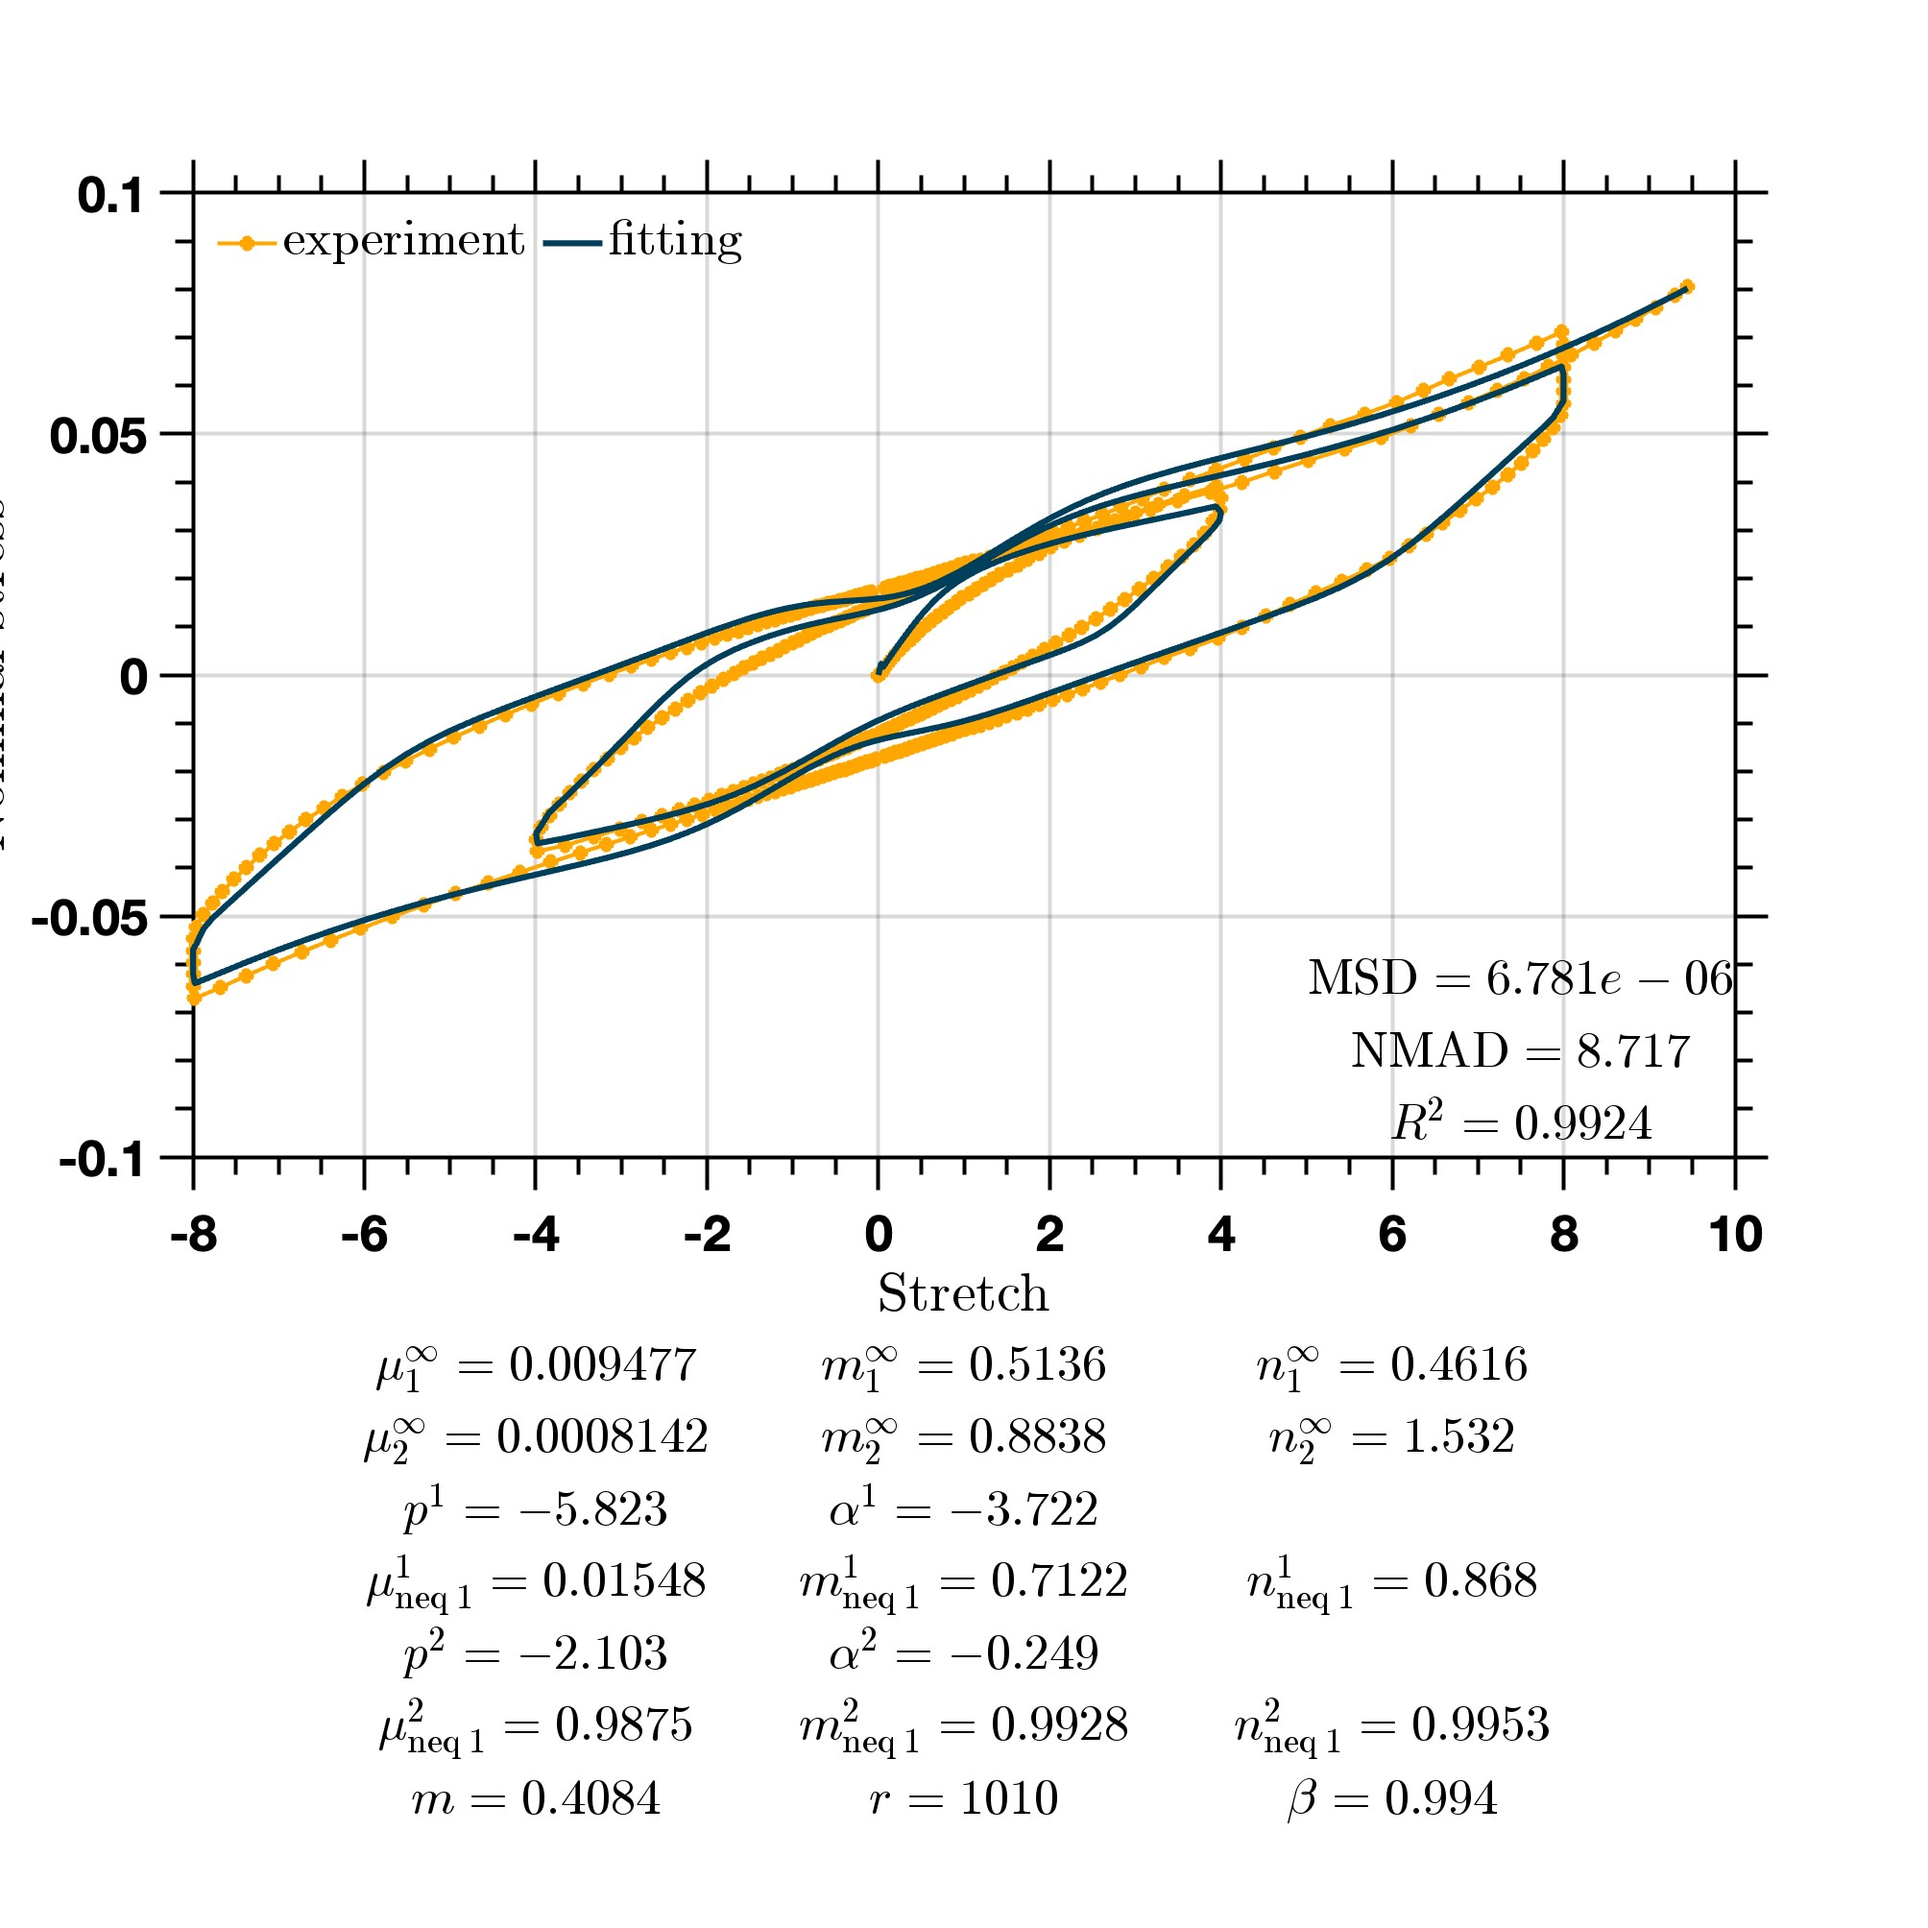
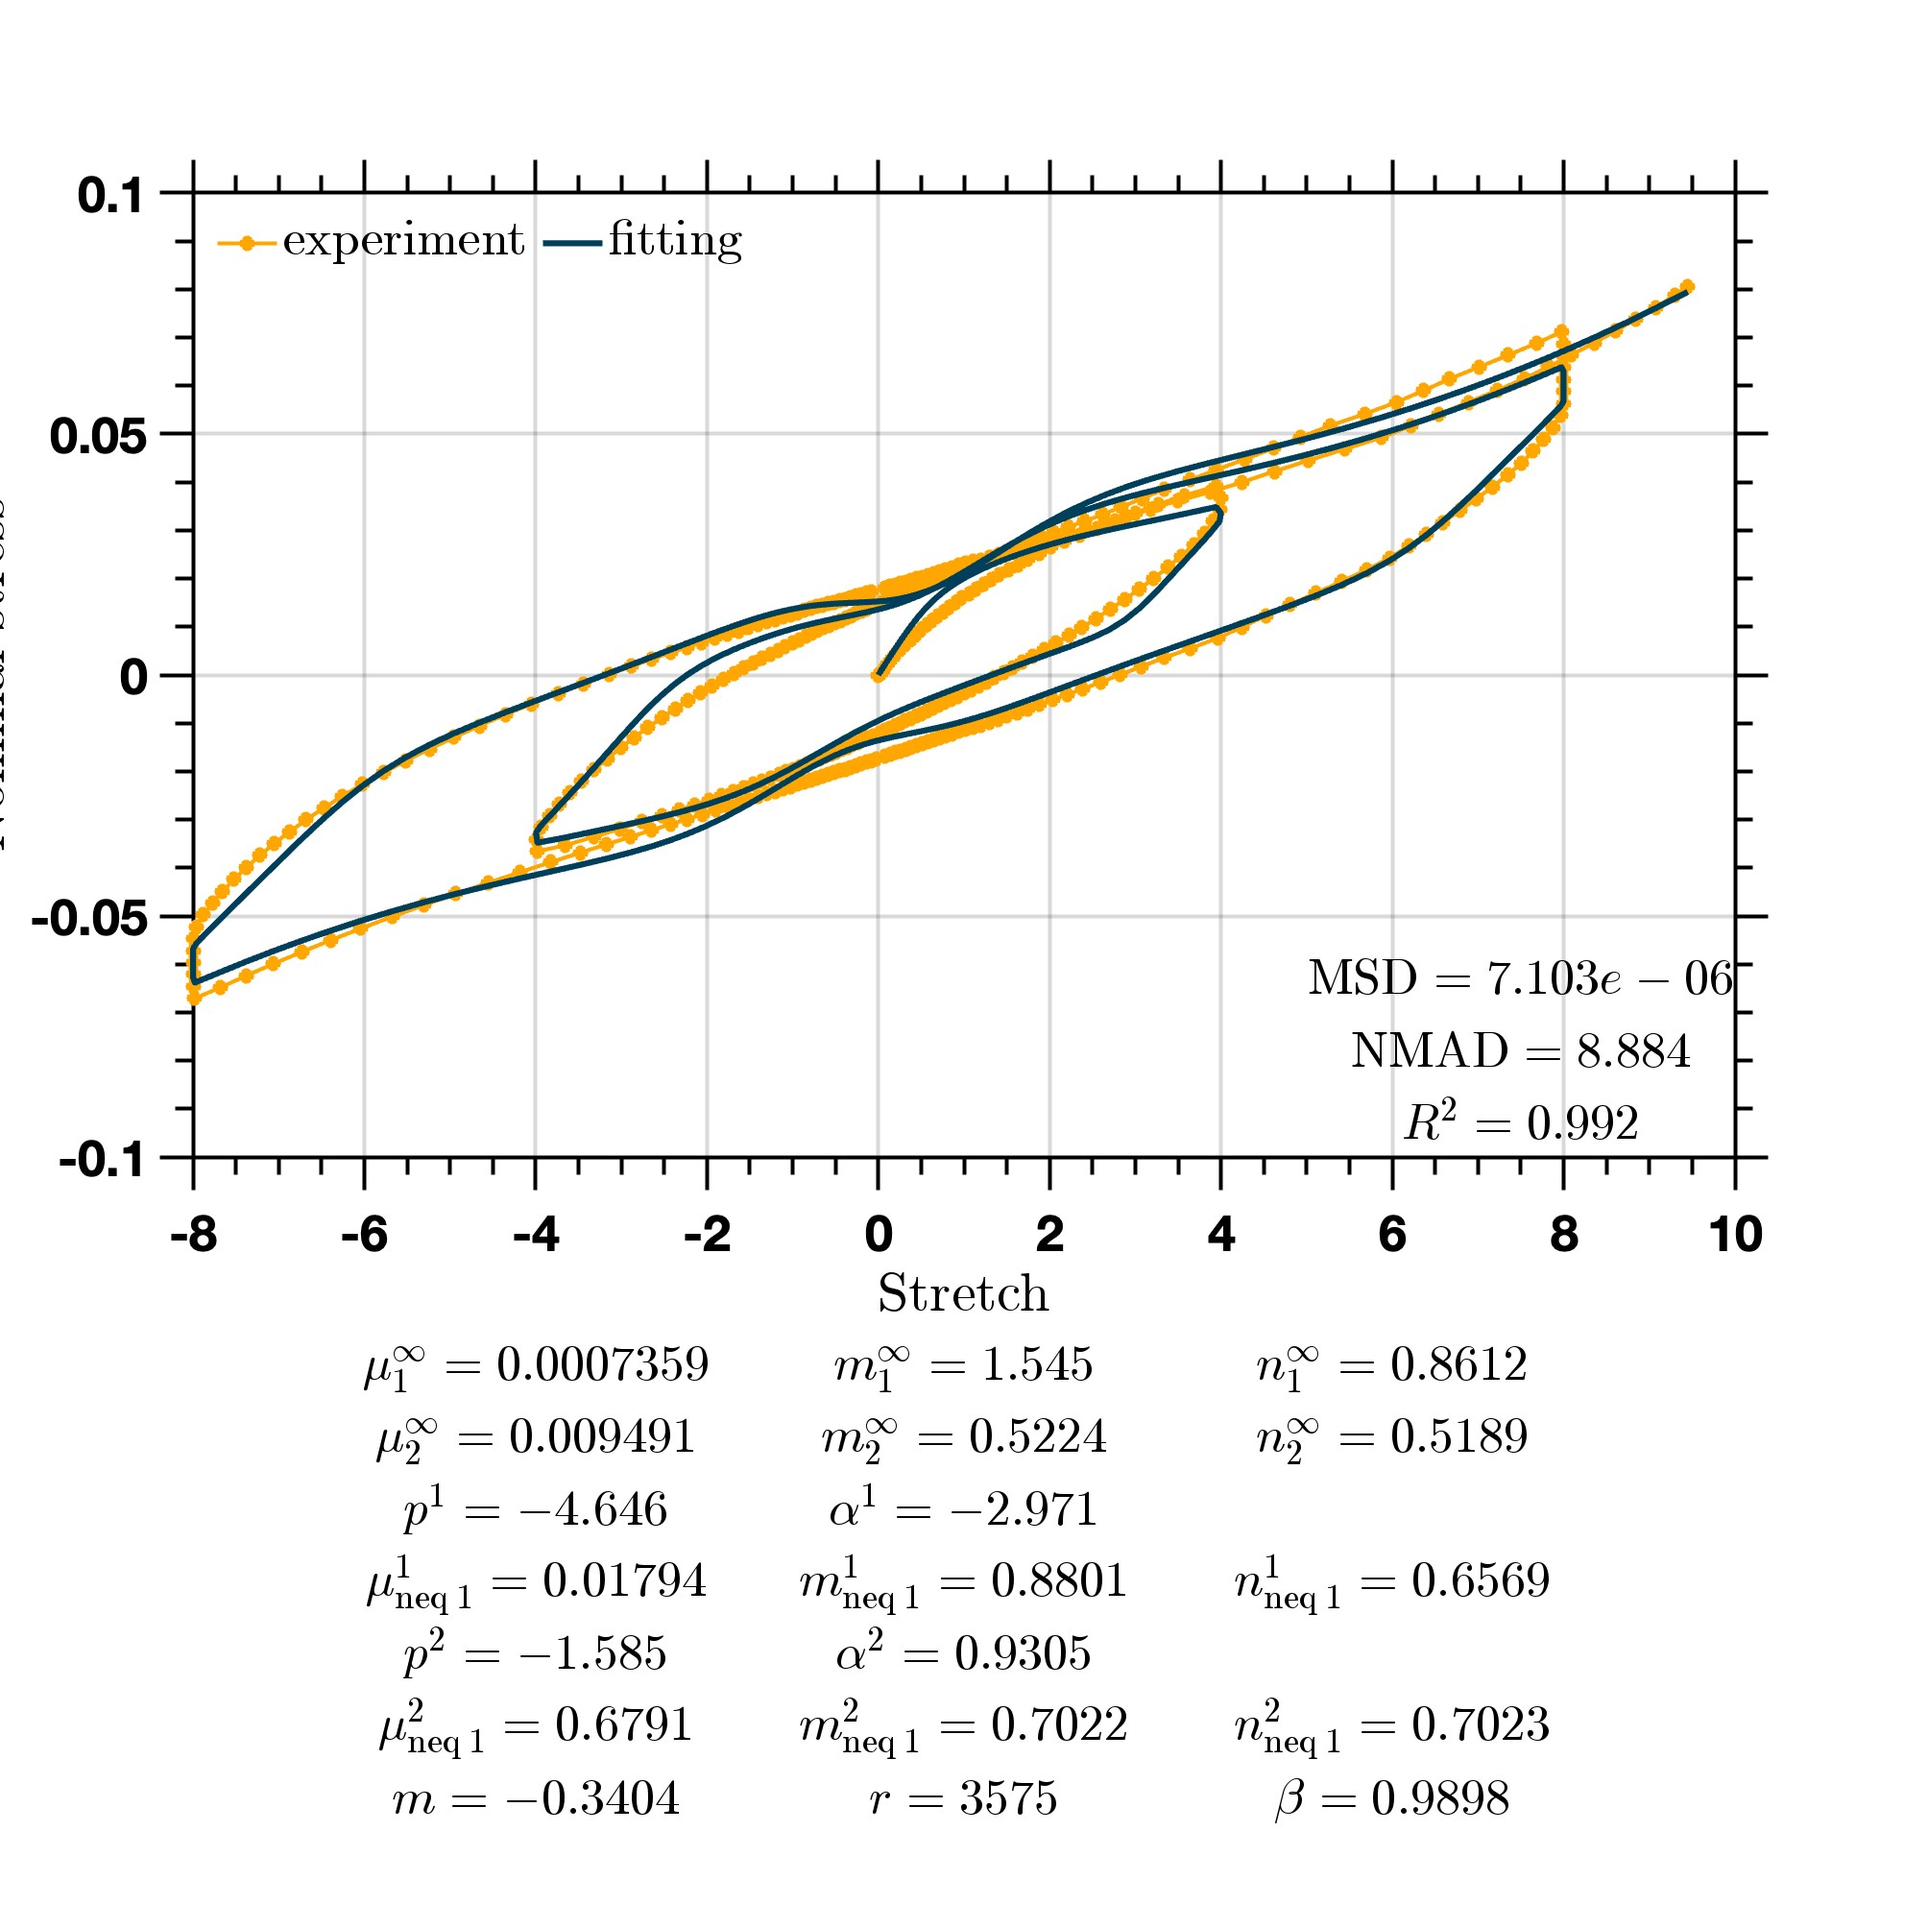
update

diff --git a/additive_CR_mullins_non_Newtonian_cyclic_shear/cyclic_shear_driver.m b/additive_CR_mullins_non_Newtonian_cyclic_shear/cyclic_shear_driver.m
@@ -39,55 +39,4 @@ options = optimoptions('lsqnonlin', ...
     'PlotFcn', 'optimplotfval');
 [paras, ~] = lsqnonlin( objectiveFunction, paras0, lb, ub, options);
 plot_result(paras, num_eq, num_neq, Ft, time, P_exp, 1);
-print(gcf, '-djpeg', 'fig_cyclic_shear_1.jpg');
-
-data = readmatrix('../smoothed_cyclic_shear_2.xlsx');
-time = data(:,1);
-P_exp = data(:,3);
-gamma = data(:,4);
-
-% Uniaxial tension experimental case
-Ft = zeros(3,3,length(time));
-Ft(1,1,:) = 1.0;
-Ft(2,2,:) = 1.0;
-Ft(3,3,:) = 1.0;
-Ft(1,2,:) = gamma(:);
-
-paras0 = paras;
-objectiveFunction = @(paras) objective(paras, Ft, P_exp, time, num_eq, num_neq);
-options = optimoptions('lsqnonlin', ...
-    'Algorithm', 'trust-region-reflective', ...
-    'MaxIterations', 1000, ...
-    'TolFun', 1e-10, ...
-    'TolX', 1e-10, ...
-    'Display', 'iter-detailed', ...
-    'PlotFcn', 'optimplotfval');
-[paras, ~] = lsqnonlin( objectiveFunction, paras0, lb, ub, options);
-plot_result(paras, num_eq, num_neq, Ft, time, P_exp, 2);
-print(gcf, '-djpeg', 'fig_cyclic_shear_2.jpg');
-
-
-data = readmatrix('../smoothed_cyclic_shear_3.xlsx');
-time = data(:,1);
-P_exp = data(:,3);
-gamma = data(:,4);
-
-% Uniaxial tension experimental case
-Ft = zeros(3,3,length(time));
-Ft(1,1,:) = 1.0;
-Ft(2,2,:) = 1.0;
-Ft(3,3,:) = 1.0;
-Ft(1,2,:) = gamma(:);
-
-paras0 = paras;
-objectiveFunction = @(paras) objective(paras, Ft, P_exp, time, num_eq, num_neq);
-options = optimoptions('lsqnonlin', ...
-    'Algorithm', 'trust-region-reflective', ...
-    'MaxIterations', 1000, ...
-    'TolFun', 1e-10, ...
-    'TolX', 1e-10, ...
-    'Display', 'iter-detailed', ...
-    'PlotFcn', 'optimplotfval');
-[paras, ~] = lsqnonlin( objectiveFunction, paras0, lb, ub, options);
-plot_result(paras, num_eq, num_neq, Ft, time, P_exp);
 print(gcf, '-djpeg', 'fig_var_sym_shear_400.jpg');

diff --git a/additive_CR_shear/simultaneous_monotonic_shear_driver.m b/additive_CR_shear/simultaneous_monotonic_shear_driver.m
@@ -5,7 +5,7 @@ addpath("src");
 % No.1 shear experimental data
 data_1 = readmatrix('../exp_data_shear/monotonic_shear_1.csv');
 time_1 = data_1(:,1);
-P_exp_1 = data_1(:,3);
+P_exp_1 = data_1(:,5);
 gamma_1 = data_1(:,4);
 
 Ft_1 = zeros(3,3,length(time_1));
@@ -17,7 +17,7 @@ Ft_1(1,2,:) = gamma_1(:);
 % No.2 shear experimental data
 data_2 = readmatrix('../exp_data_shear/monotonic_shear_0d1.csv');
 time_2 = data_2(:,1);
-P_exp_2 = data_2(:,3);
+P_exp_2 = data_2(:,5);
 gamma_2 = data_2(:,4);
 
 Ft_2 = zeros(3,3,length(time_2));
@@ -29,7 +29,7 @@ Ft_2(1,2,:) = gamma_2(:);
 % No.3 shear experimental data
 data_3 = readmatrix('../exp_data_shear/monotonic_shear_0d01.csv');
 time_3 = data_3(:,1);
-P_exp_3 = data_3(:,3);
+P_exp_3 = data_3(:,5);
 gamma_3 = data_3(:,4);
 
 Ft_3 = zeros(3,3,length(time_3));
@@ -41,7 +41,7 @@ Ft_3(1,2,:) = gamma_3(:);
 % No.4 shear experimental data
 data_4 = readmatrix('../exp_data_shear/monotonic_shear_0d05.csv');
 time_4 = data_4(:,1);
-P_exp_4 = data_4(:,3);
+P_exp_4 = data_4(:,5);
 gamma_4 = data_4(:,4);
 
 Ft_4 = zeros(3,3,length(time_4));
@@ -74,6 +74,7 @@ options = optimoptions('lsqnonlin', ...
     'PlotFcn', 'optimplotfval');
 
 [paras, resnorm] = lsqnonlin( objectiveFunction, paras0, lb, ub, options);
+
 plot_results_validate(paras, num_eq, num_neq, Ft_1, time_1, P_exp_1,...
                                      Ft_2, time_2, P_exp_2,...
                                      Ft_3, time_3, P_exp_3,...

diff --git a/additive_CR_cyclic_shear/cyclic_shear_driver.m b/additive_CR_cyclic_shear/cyclic_shear_driver.m
@@ -1,10 +1,10 @@
 clc; clear; close all
 
 addpath("src");
-data = readmatrix('../cyclic_shear_part.xlsx');
+data = readmatrix('../exp_data_cyclic_shear_raw/400.xlsx');
 time = data(:,1);
-P_exp = data(:,2);
-gamma = data(:,3);
+P_exp = data(:,3);
+gamma = data(:,4);
 
 % Uniaxial tension experimental case
 Ft = zeros(3,3,length(time));
@@ -14,14 +14,14 @@ Ft(3,3,:) = 1.0;
 Ft(1,2,:) = gamma(:);
 
 % parameters
-mu_eq = [1.0];
-m_eq = [1.0];
-n_eq = [1.0];
+mu_eq = [1.0, 1.0];
+m_eq = [1.0, 1.0];
+n_eq = [1.0, 1.0];
 
-mu_neq = [1.0];
-m_neq = [1.0];
-n_neq = [1.0];
-eta_d = [100.0];
+mu_neq = [1.0, 1.0];
+m_neq = [1.0, 1.0];
+n_neq = [1.0, 1.0];
+eta_d = [100.0, 1.0];
 
 [paras0, num_eq, num_neq, lb, ub] = array_to_paras(mu_eq, m_eq, n_eq, mu_neq, m_neq, n_neq, eta_d);
 
@@ -29,8 +29,9 @@ objectiveFunction = @(paras) objective(paras, Ft, P_exp, time, num_eq, num_neq);
 options = optimoptions('lsqnonlin', ...
     'Algorithm', 'trust-region-reflective', ...
     'MaxIterations', 500, ...
+    'MaxFunctionEvaluations', 10000, ...
     'Display', 'iter-detailed');
 
 [paras, resnorm] = lsqnonlin( objectiveFunction, paras0, lb, ub, options);
 plot_result(paras, num_eq, num_neq, Ft, time, gamma, P_exp);
-print(gcf, '-djpeg', 'fig_cyclic_shear_part.jpg');
+print(gcf, '-djpeg', 'fig_cyclic_shear.jpg');

diff --git a/additive_CR_cyclic_shear/src/plot_result.m b/additive_CR_cyclic_shear/src/plot_result.m
@@ -6,9 +6,9 @@ P_pre = get_P_ij_list(1, 2, mu_eq, m_eq, n_eq, mu_neq, m_neq, n_neq, eta_d, Ft, 
 
 figure;
 ax = axes('Position', [0.1 0.4 0.8 0.5], 'Box', 'on');
-plot(ax, gamma(1:10:end-1), P_exp(1:10:end-1), 'Color', '#ffa600', 'Marker', 'o', 'MarkerFaceColor', '#ffa600', 'MarkerSize', 10, 'LineStyle', '-', LineWidth=2.0);
+plot(ax, gamma, P_exp, 'Color', '#ffa600', 'Marker', 'o', 'MarkerFaceColor', '#ffa600', 'MarkerSize', 10, 'LineStyle', '-', LineWidth=2.0);
 hold(ax, 'on');
-plot(ax, gamma(1:10:end-1), P_pre(1:10:end-1), 'linewidth', 3.0, 'Color', '#003f5c', 'LineStyle', '-');
+plot(ax, gamma, P_pre, 'linewidth', 3.0, 'Color', '#003f5c', 'LineStyle', '-');
 xlabel(ax, 'Stretch', 'interpreter', 'latex', 'FontSize', 30, 'FontWeight', 'bold', 'FontName', 'Helvetica');
 ylabel(ax, 'Nominal stress', 'interpreter', 'latex', 'FontSize', 30, 'FontWeight', 'bold', 'FontName', 'Helvetica');
 set(ax, 'TickDir', 'out', ...

diff --git a/additive_CR_mullins_symmetric_shear/cyclic_shear_driver.m b/additive_CR_mullins_symmetric_shear/cyclic_shear_driver.m
@@ -1,7 +1,7 @@
 clc; clear; close all
 
 addpath("src");
-data = readmatrix('../exp_data_symmetric_shear_raw/400.xlsx');
+data = readmatrix('../exp_data_cyclic_shear_raw/400.xlsx');
 time = data(:,1);
 P_exp = data(:,3);
 gamma = data(:,4);
@@ -38,4 +38,4 @@ options = optimoptions('lsqnonlin', ...
     'PlotFcn', 'optimplotfval');
 [paras, ~] = lsqnonlin( objectiveFunction, paras0, lb, ub, options);
 plot_result(paras, num_eq, num_neq, Ft, time, P_exp);
-print(gcf, '-djpeg', 'fig_cyclic_shear_400.jpg');
+print(gcf, '-djpeg', 'fig_cyclic_shear_800.jpg');

diff --git a/additive_CR_mullins_cyclic_shear/cyclic_shear_driver.m b/additive_CR_mullins_cyclic_shear/cyclic_shear_driver.m
@@ -1,7 +1,7 @@
 clc; clear; close all
 
 addpath("src");
-data = readmatrix('../exp_data_cyclic_shear_raw/100.xlsx');
+data = readmatrix('../exp_data_cyclic_shear_raw/400.xlsx');
 time = data(:,1);
 P_exp = data(:,3);
 gamma = data(:,4);
@@ -38,4 +38,4 @@ options = optimoptions('lsqnonlin', ...
     'PlotFcn', 'optimplotfval');
 [paras, ~] = lsqnonlin( objectiveFunction, paras0, lb, ub, options);
 plot_result(paras, num_eq, num_neq, Ft, time, P_exp);
-print(gcf, '-djpeg', 'fig_cyclic_shear_100.jpg');
+print(gcf, '-djpeg', 'fig_cyclic_shear_400.jpg');

diff --git a/additive_CR_mullins_non_Newtonian_cyclic_shear/src/array_to_paras.m b/additive_CR_mullins_non_Newtonian_cyclic_shear/src/array_to_paras.m
@@ -22,8 +22,8 @@ end
 
 for ii = 1:num_neq
     paras = [paras, mu_neq(ii), m_neq(ii), n_neq(ii), p(ii), alpha(ii)];
-    lb = [lb, 0, -10, -10, -10, -10];
-    ub = [ub, Inf, 10, 10, 10, 10];
+    lb = [lb, 0, -10, -10, -10, -Inf];
+    ub = [ub, Inf, 10, 10, 10, Inf];
 end
 
 paras = [paras, m, r, beta];

diff --git a/additive_CR_mullins_non_Newtonian_cyclic_shear/src/get_eta_d.m b/additive_CR_mullins_non_Newtonian_cyclic_shear/src/get_eta_d.m
@@ -1,5 +1,5 @@
 function out = get_eta_d(mu_neq, m_neq, n_neq, p, alpha, C, Ev)
 out = 10.0^p;
 T_neq = get_T_neq(mu_neq, m_neq, n_neq, C, Ev);
-out = out * (get_norm(T_neq)+1.0e-2)^alpha;
+    out = out * (get_norm(T_neq)+1.0e-2)^alpha;
 end

diff --git a/additive_CR_mullins_var_sym_shear/test.m b/additive_CR_mullins_var_sym_shear/test.m
@@ -1,6 +1,6 @@
 clc;clear;close all
 addpath("src");
-data = readmatrix('../exp_data_symmetric_shear_raw/400.xlsx');
+data = readmatrix('../exp_data_var_sym_shear_raw/400.xlsx');
 time = data(:,1);
 P_exp = data(:,3);
 gamma = data(:,4);
